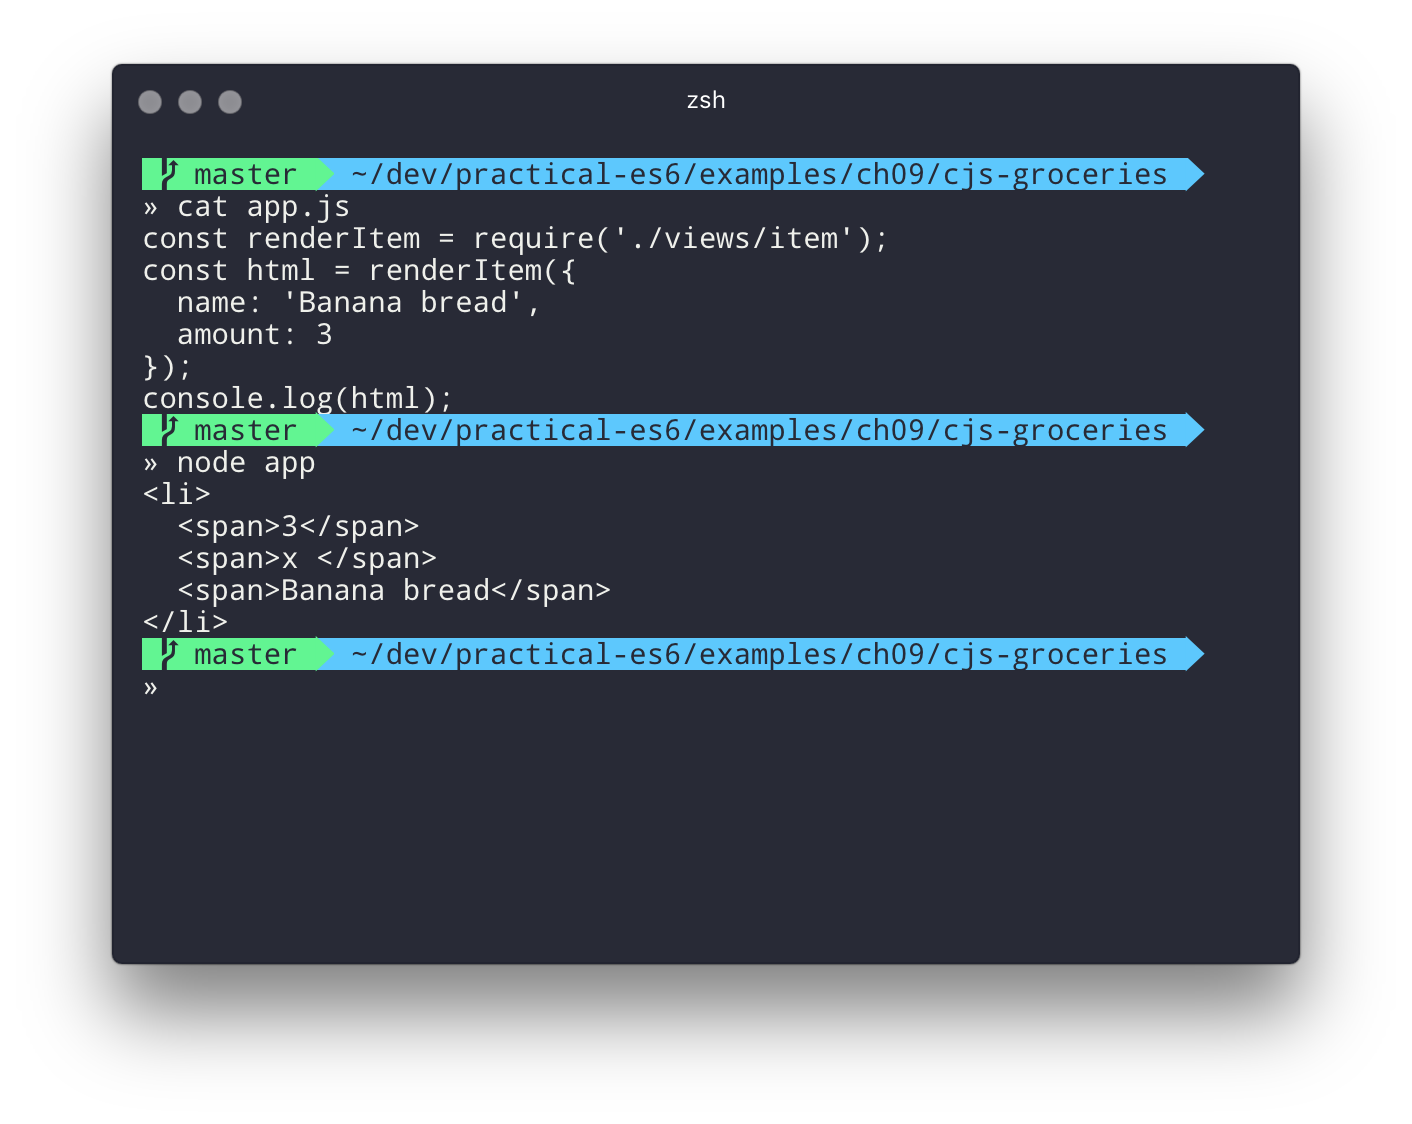
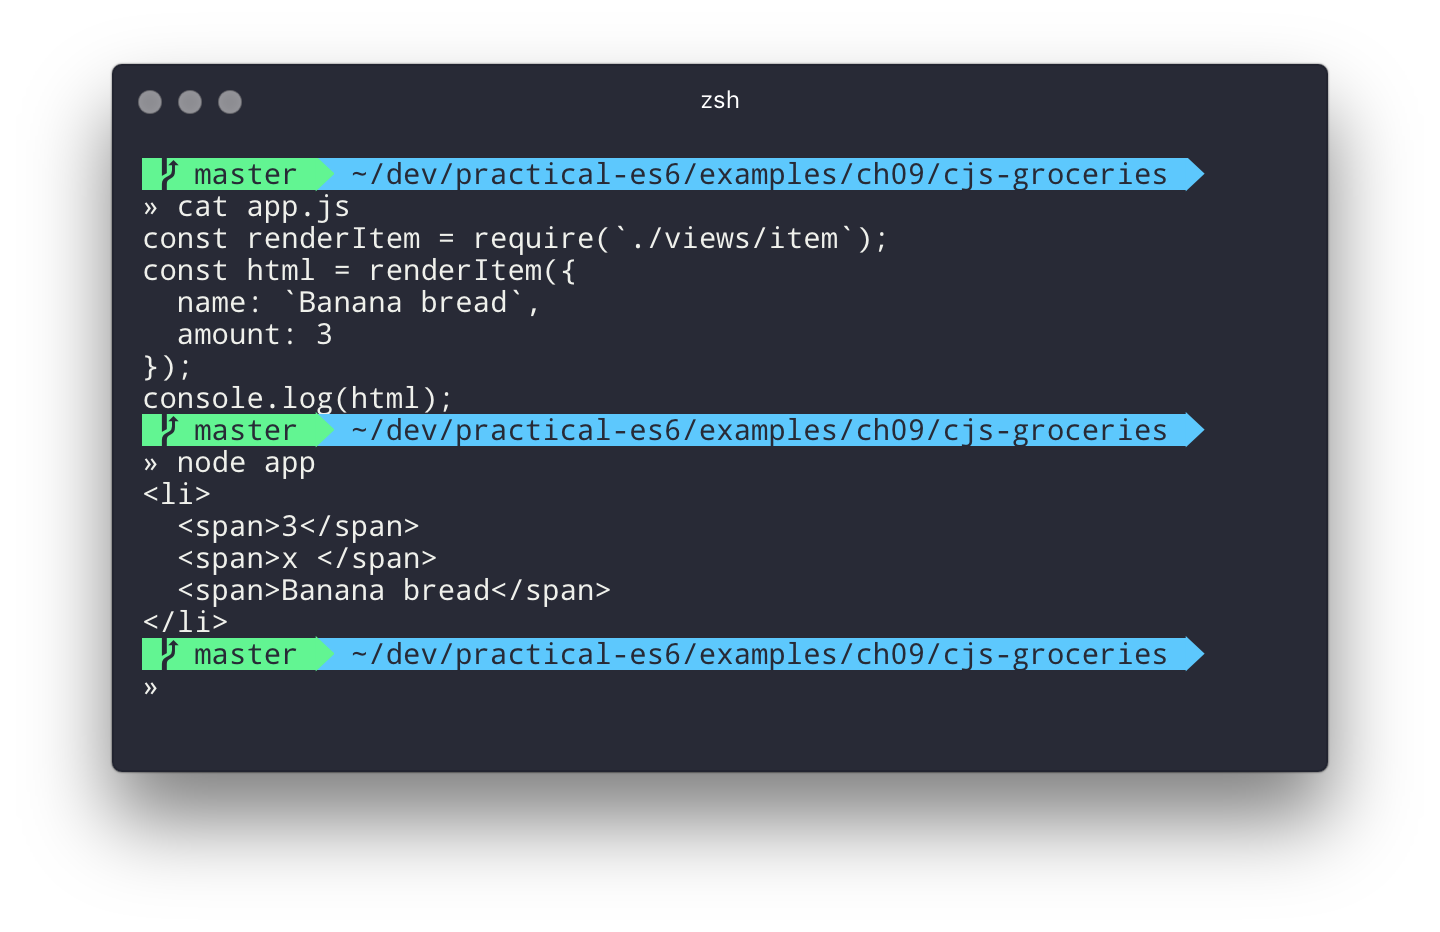
more copy

Changed region(s): [[0.0623, 0.0311, 0.9348, 0.7468], [0.0623, 0.809, 0.9348, 0.9024]]

diff --git a/examples/ch09/cjs-grocery-list/app.js b/examples/ch09/cjs-grocery-list/app.js
@@ -1,0 +1,9 @@
+const renderList = require(`./views/list`);
+const html = renderList([{
+  name: `Banana bread`,
+  amount: 3
+}, {
+  name: `Chocolate chip muffin`,
+  amount: 2
+}]);
+console.log(html);

diff --git a/examples/ch09/cjs-grocery-list/views/list.js b/examples/ch09/cjs-grocery-list/views/list.js
@@ -1,0 +1,11 @@
+const renderItem = require(`./item`);
+
+module.exports = model => `<ul>
+  ${
+    model
+      .map(renderItem)
+      .join(`\n`)
+      .split(`\n`)
+      .join(`\n  `)
+  }
+</ul>`;

diff --git a/examples/ch09/cjs-grocery-list/views/item.js b/examples/ch09/cjs-grocery-list/views/item.js
@@ -1,0 +1,5 @@
+module.exports = model => `<li>
+  <span>${ model.amount }</span>
+  <span>x </span>
+  <span>${ model.name }</span>
+</li>`;
